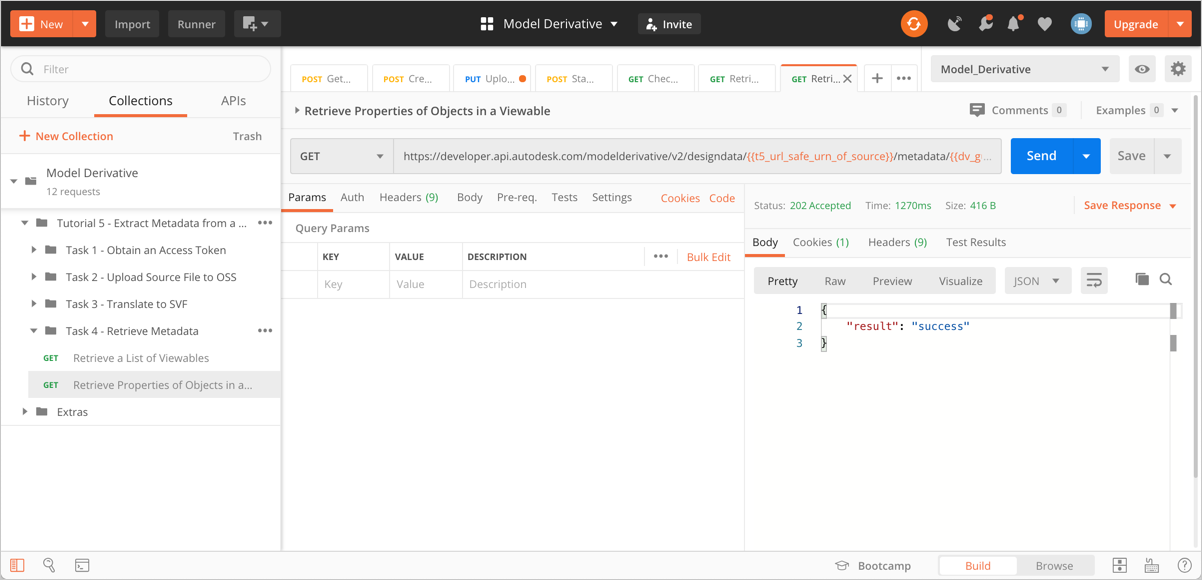
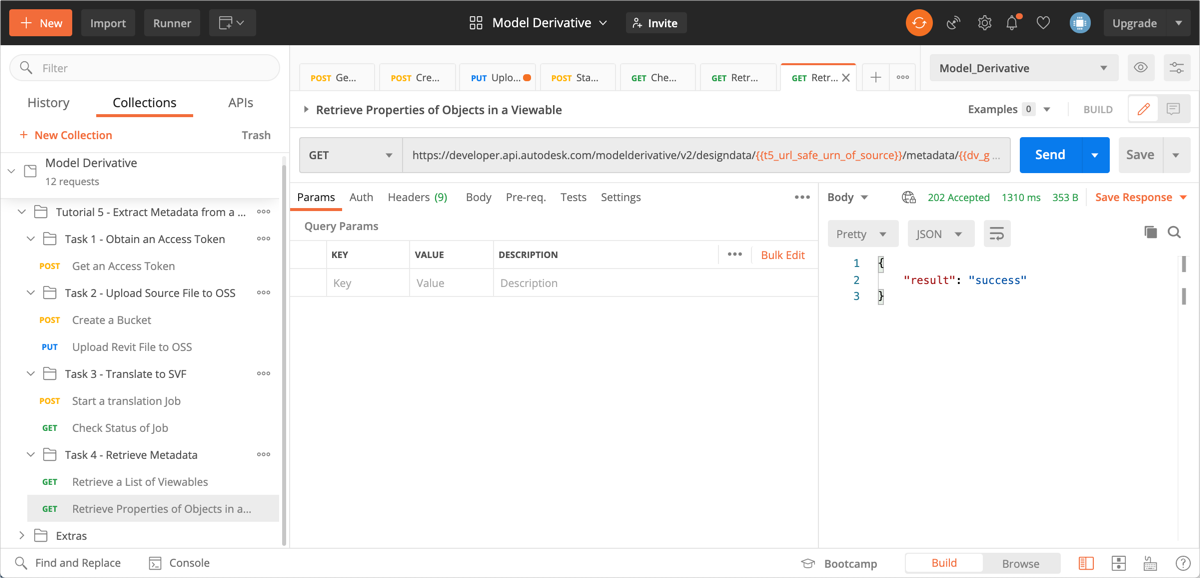
Added new images and fixed typo

diff --git a/ModelDerivative_05/instructions/task-4.md b/ModelDerivative_05/instructions/task-4.md
@@ -12,7 +12,7 @@ To obtain a list of Viewables, you will use the URL safe Base64-encoded URN of t
 
    ![list Viewables](../images/task4_list_model_views_success.png "list viewables")
 
-   A script in the **Tests** tab saves the Ids of the Viewables to a series of variables `dv_guid_0` to `gv_guid_6`.
+   A script in the **Tests** tab saves the Ids of the Viewables to a series of variables `dv_guid_0` to `dv_guid_6`.
 
    ![list Viewables](../images/task4_list_model_view_guids.png "list viewables")
 
